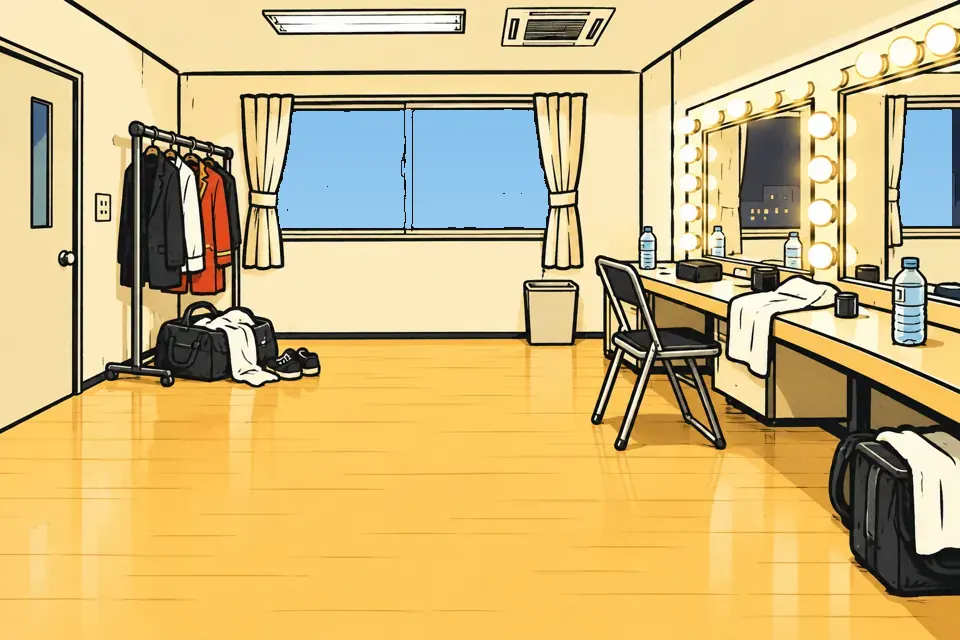
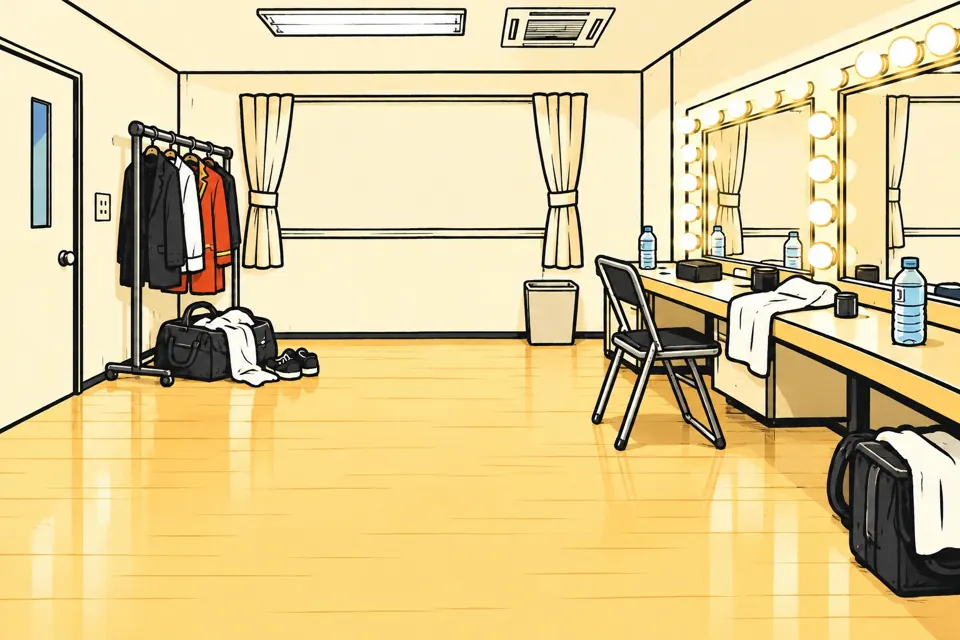
昼の背景7枚（部屋・厨房・ファミレス・楽屋・居酒屋・カラオケ・公園）を描き直した絵に差し替える
Claude-Session: https://claude.ai/code/session_018fuqTRBSnm8TggR5J5TouH

diff --git a/src/ui/art.ts b/src/ui/art.ts
@@ -91,7 +91,7 @@ const PLACE_BY_WORD: [RegExp, string][] = [
 ]
 
 // その行の背景。イベントが場所を指定していればそれ、イベントごとに決まった場所があればそれ、なければ行の言葉、それもなければ前の行の場所を引き継ぐ
-// dayLines: 先頭から何行が昼のできごとか。昼の行では、窓の外が夜の絵を昼の絵（bg_◯◯_day）に差し替える
+// dayLines: 先頭から何行が昼のできごとか。昼の行では、夜の絵を昼の絵（bg_◯◯_day）に差し替える
 export function backgrounds(title: string, lines: string[], at?: string, dayLines = 0): (string | undefined)[] {
   const fixed = at ?? PLACE_BY_TITLE[title]
   let place = fixed ?? (title.includes('授業') || title.includes('ネタ見せ') ? 'kyoushitsu' : undefined)
